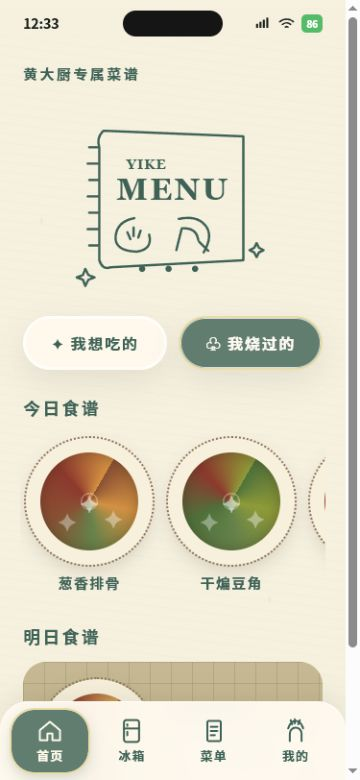
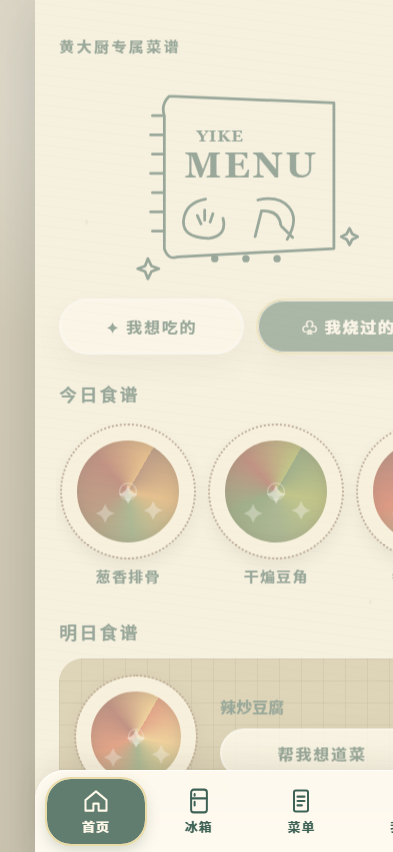
Remove duplicate mobile status bar

diff --git a/styles.css b/styles.css
@@ -46,31 +46,9 @@ button { color: inherit; }
   box-shadow: 0 0 60px rgba(44, 56, 46, .23);
 }
 
-.status-bar {
-  position: fixed;
-  z-index: 30;
-  top: 0;
-  width: min(100%, 430px);
-  height: calc(48px + env(safe-area-inset-top));
-  padding: env(safe-area-inset-top) 24px 0;
-  display: grid;
-  grid-template-columns: 1fr 1.5fr 1fr;
-  align-items: center;
-  color: #18201c;
-  font-weight: 700;
-  font-size: 14px;
-  background: linear-gradient(var(--paper), rgba(246,240,223,.9), transparent);
-  pointer-events: none;
-}
-
-.island { width: 104px; height: 27px; justify-self: center; border-radius: 999px; background: #151515; }
-.status-icons { display: flex; justify-content: flex-end; align-items: center; gap: 7px; }
-.status-icons svg { width: 17px; height: 14px; fill: currentColor; }
-.battery { padding: 2px 5px; border-radius: 5px; color: white; background: #55bb68; font-size: 10px; }
-
 .app-content {
   min-height: 100dvh;
-  padding: calc(66px + env(safe-area-inset-top)) 24px calc(116px + env(safe-area-inset-bottom));
+  padding: calc(32px + env(safe-area-inset-top)) 24px calc(116px + env(safe-area-inset-bottom));
   overflow: hidden;
 }
 
@@ -219,7 +197,6 @@ button { color: inherit; }
 @media (min-width: 520px) {
   body { padding: 24px 0; }
   .app-shell { min-height: calc(100dvh - 48px); height: calc(100dvh - 48px); border-radius: 38px; }
-  .status-bar { top: 24px; border-radius: 38px 38px 0 0; }
   .tab-bar { bottom: 24px; border-radius: 30px 30px 38px 38px; }
   .bottom-sheet { bottom: 24px; border-radius: 30px 30px 38px 38px; }
   .app-content { height: 100%; overflow-y: auto; }

diff --git a/index.html b/index.html
@@ -10,16 +10,6 @@
   </head>
   <body>
     <div class="app-shell" id="appShell">
-      <header class="status-bar" aria-label="模拟设备状态栏">
-        <span id="clock">09:41</span>
-        <span class="island" aria-hidden="true"></span>
-        <span class="status-icons" aria-hidden="true">
-          <svg viewBox="0 0 24 16"><path d="M1 15h3V9H1v6Zm5 0h3V6H6v9Zm5 0h3V3h-3v12Zm5 0h3V0h-3v15Z"/></svg>
-          <svg viewBox="0 0 24 18"><path d="M2 7c5.7-5 14.3-5 20 0M6 11c3.4-3 8.6-3 12 0m-8 4c1.1-1 2.9-1 4 0" fill="none" stroke="currentColor" stroke-width="2.2" stroke-linecap="round"/></svg>
-          <span class="battery">86</span>
-        </span>
-      </header>
-
       <main id="appContent" class="app-content" tabindex="-1"></main>
 
       <nav class="tab-bar" aria-label="主要导航">

diff --git a/app.js b/app.js
@@ -334,11 +334,4 @@ document.querySelector("#sheetClose").addEventListener("click", closeSheet);
 backdrop.addEventListener("click", closeSheet);
 document.addEventListener("keydown", event => { if (event.key === "Escape" && !sheet.hidden) closeSheet(); });
 
-function updateClock() {
-  const now = new Date();
-  document.querySelector("#clock").textContent = new Intl.DateTimeFormat("zh-CN", { hour: "2-digit", minute: "2-digit", hour12: false }).format(now);
-}
-
-updateClock();
-setInterval(updateClock, 30000);
 render();
